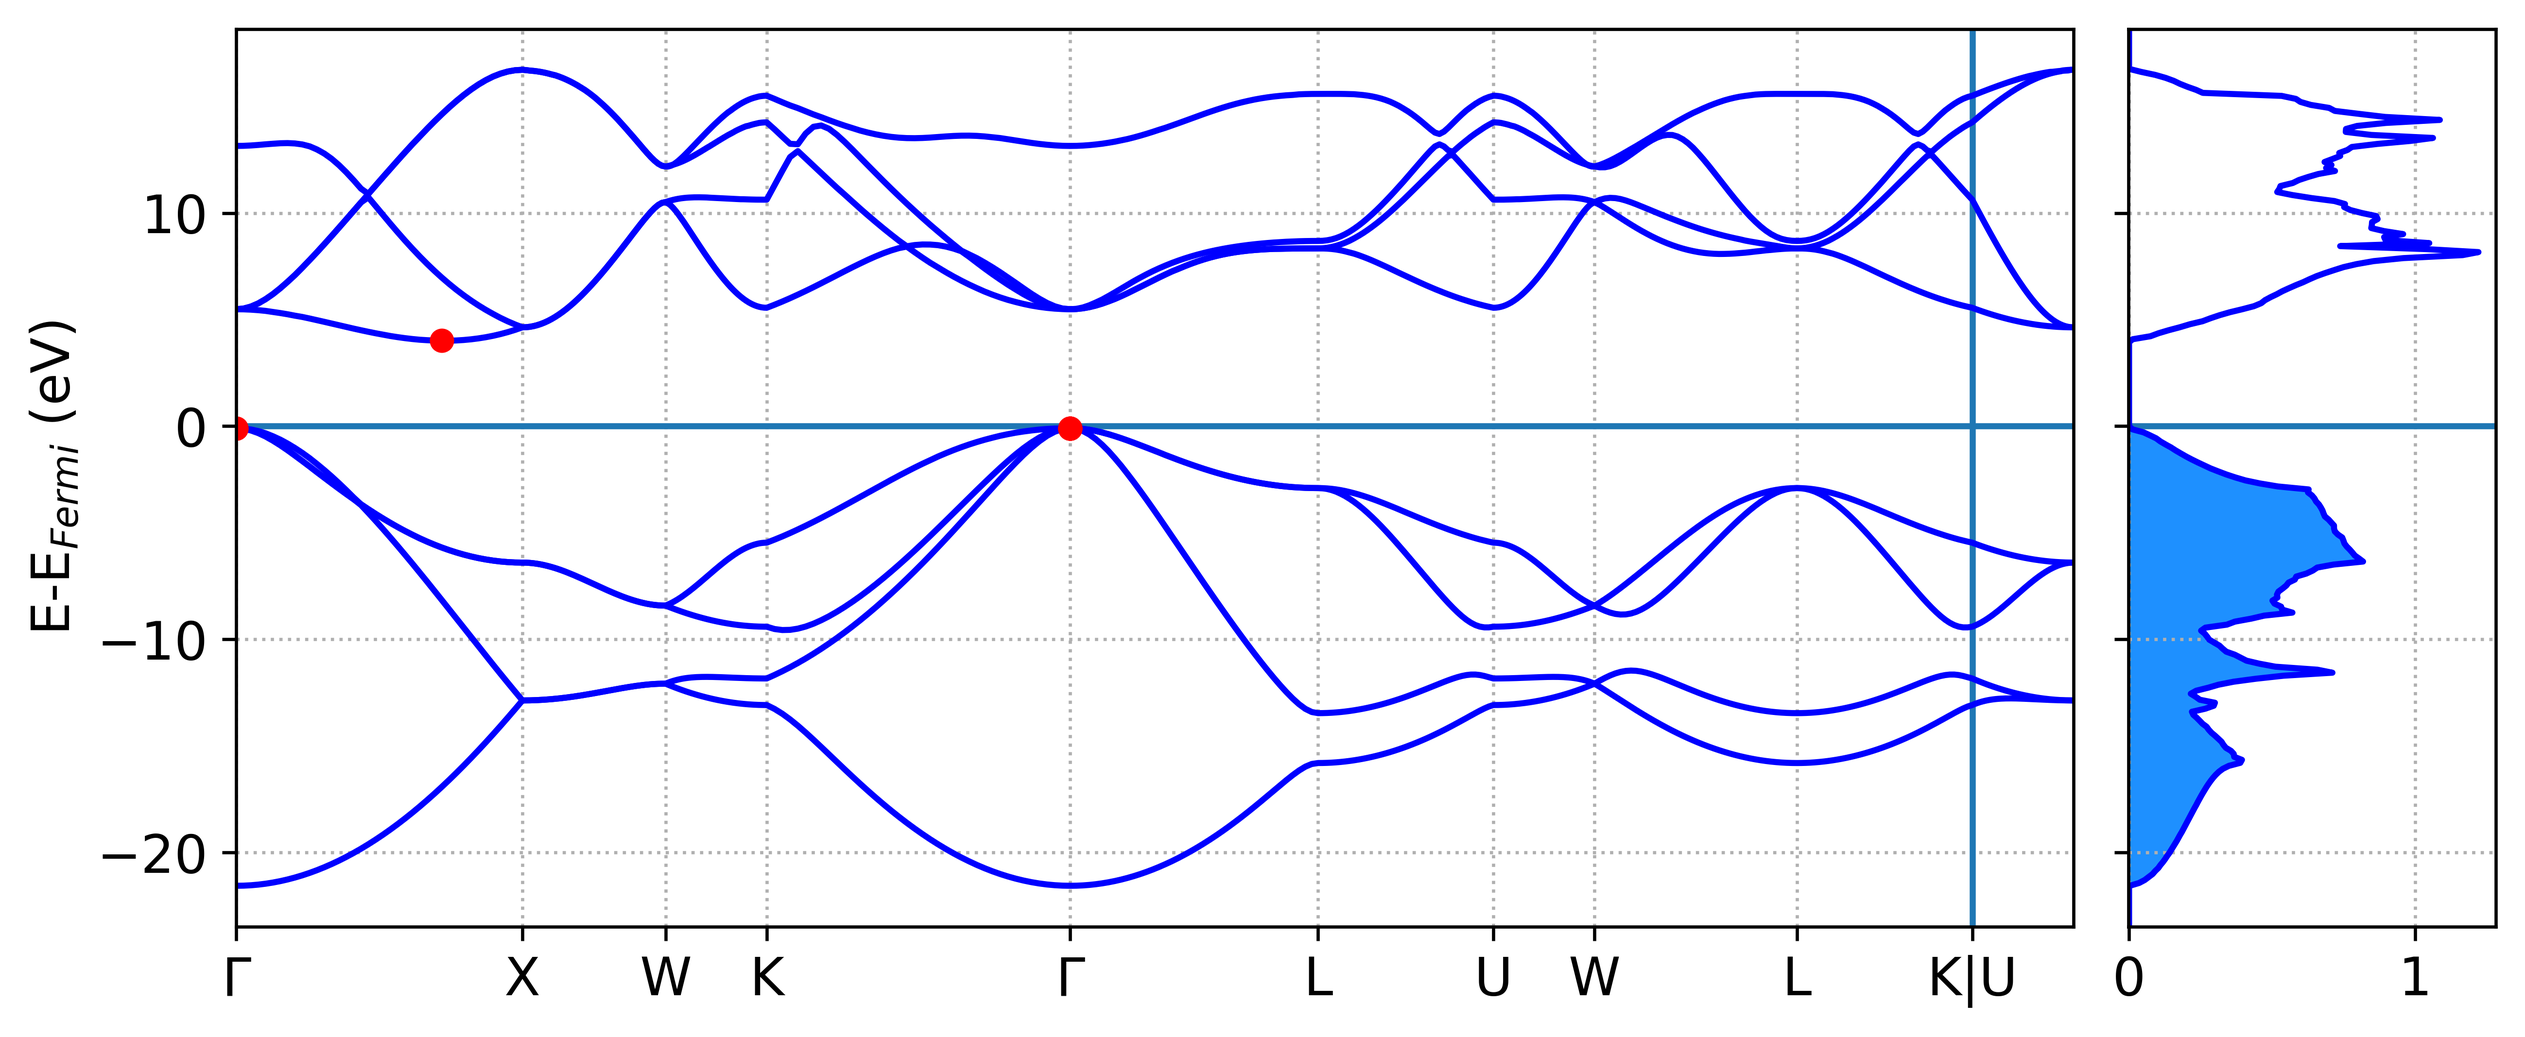
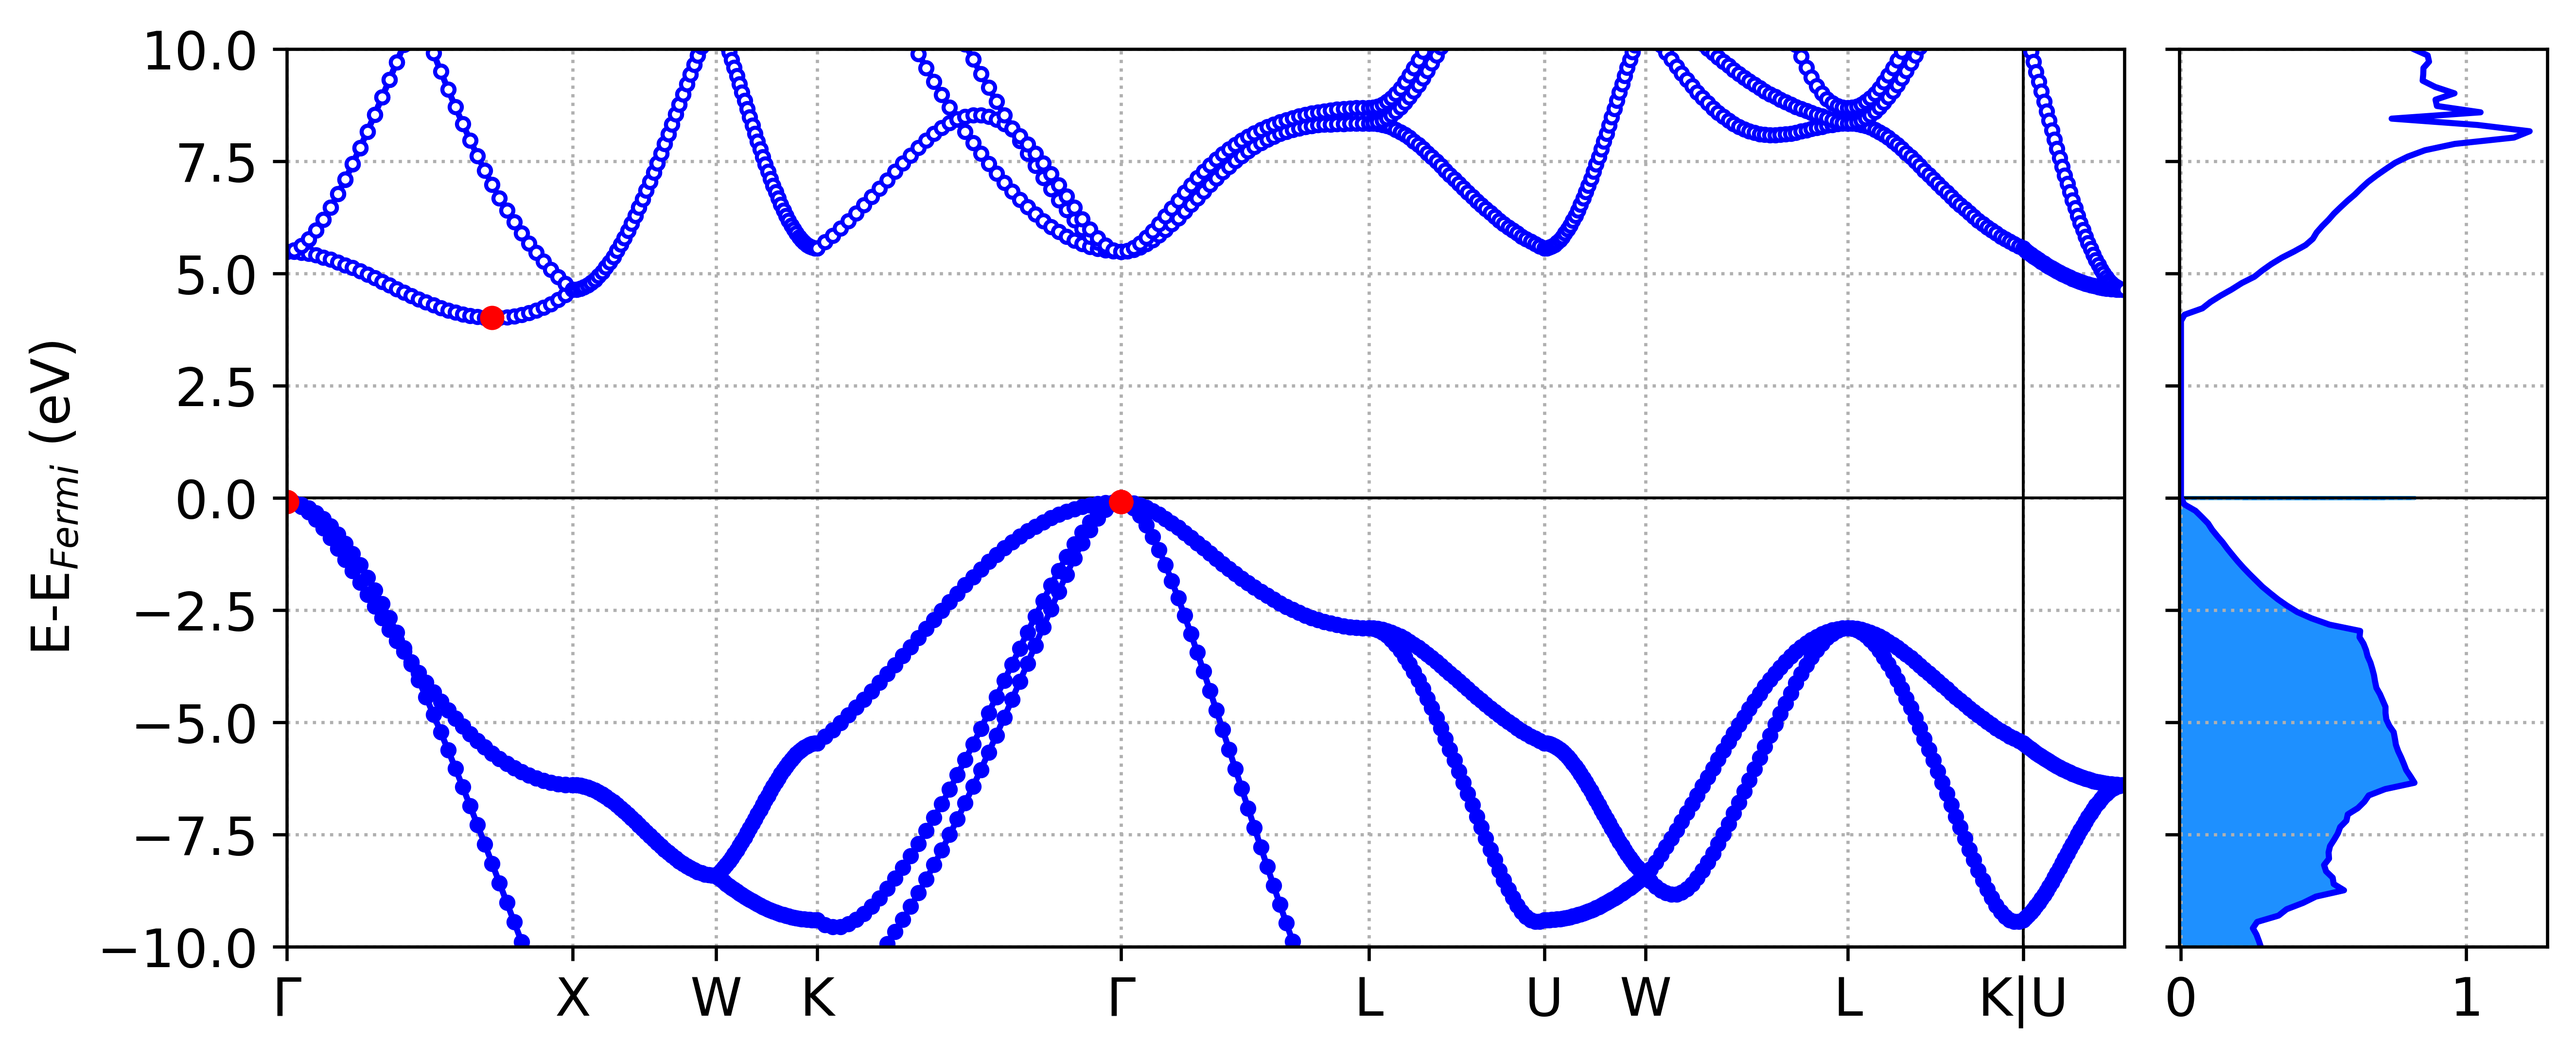
changed EFermi to Ef, changed demo image

diff --git a/README.md b/README.md
@@ -44,7 +44,7 @@ Some example plots with the different options:
 <img src="./demo_pictures/bands.png" alt="drawing" width="600"/>
 
 
-`$ plvasp -d -b --m`
+`$ plvasp -d -b --r -10 10 --m --points`
 
 
 <img src="./demo_pictures/bands_dos.png" alt="drawing" width="600"/>
